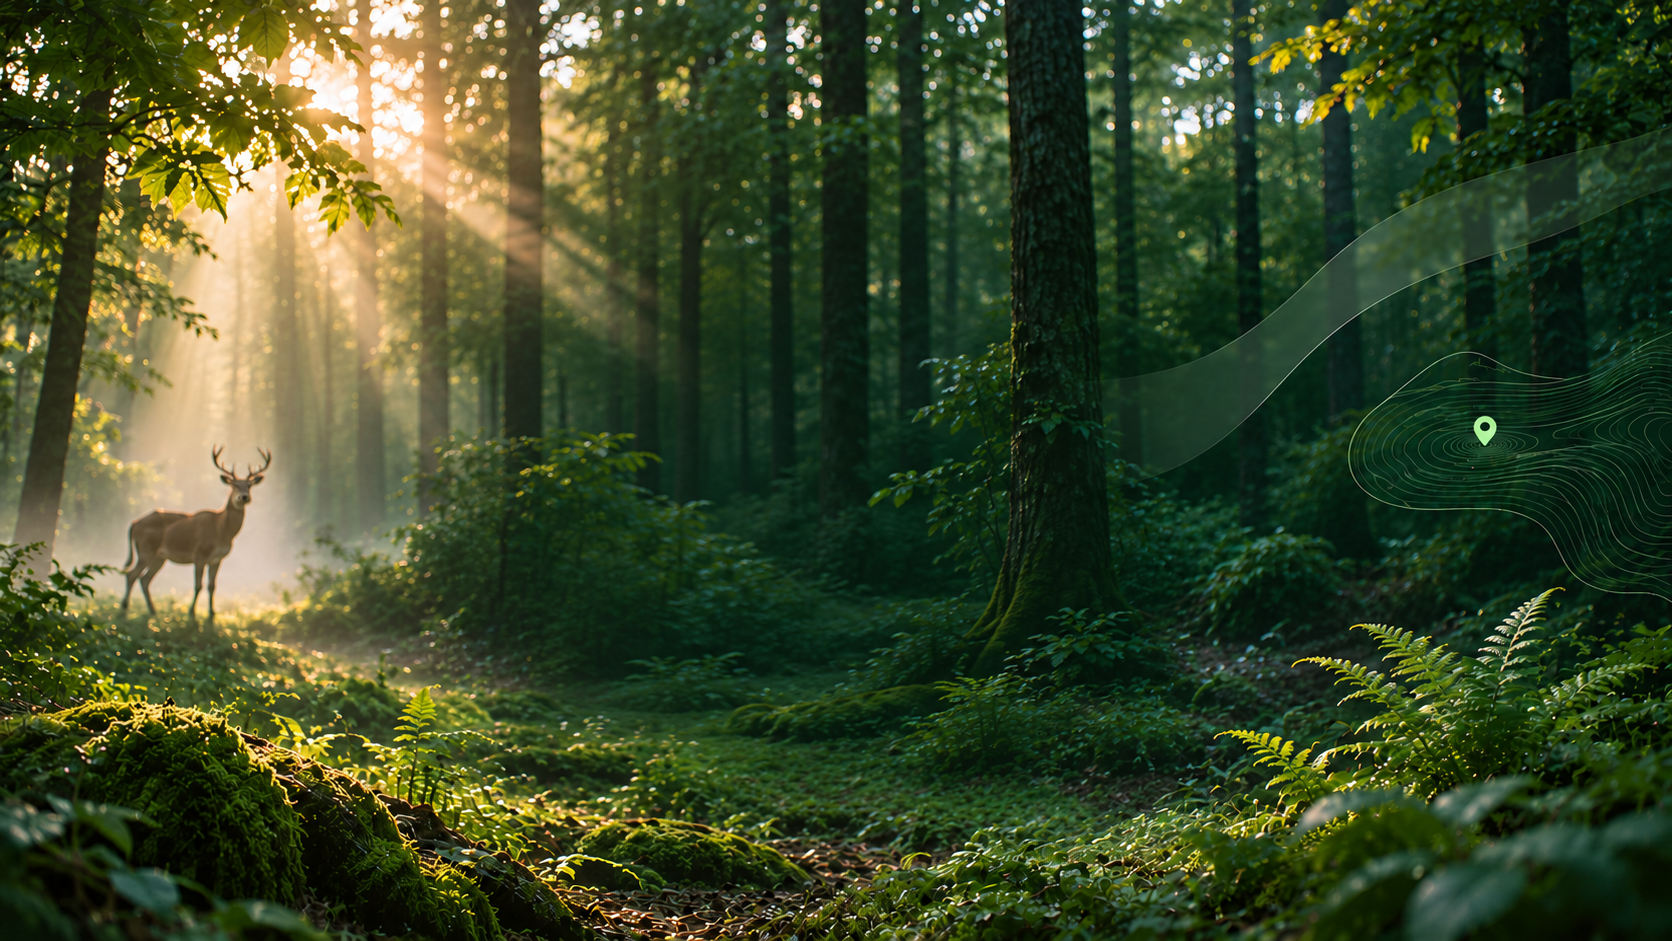
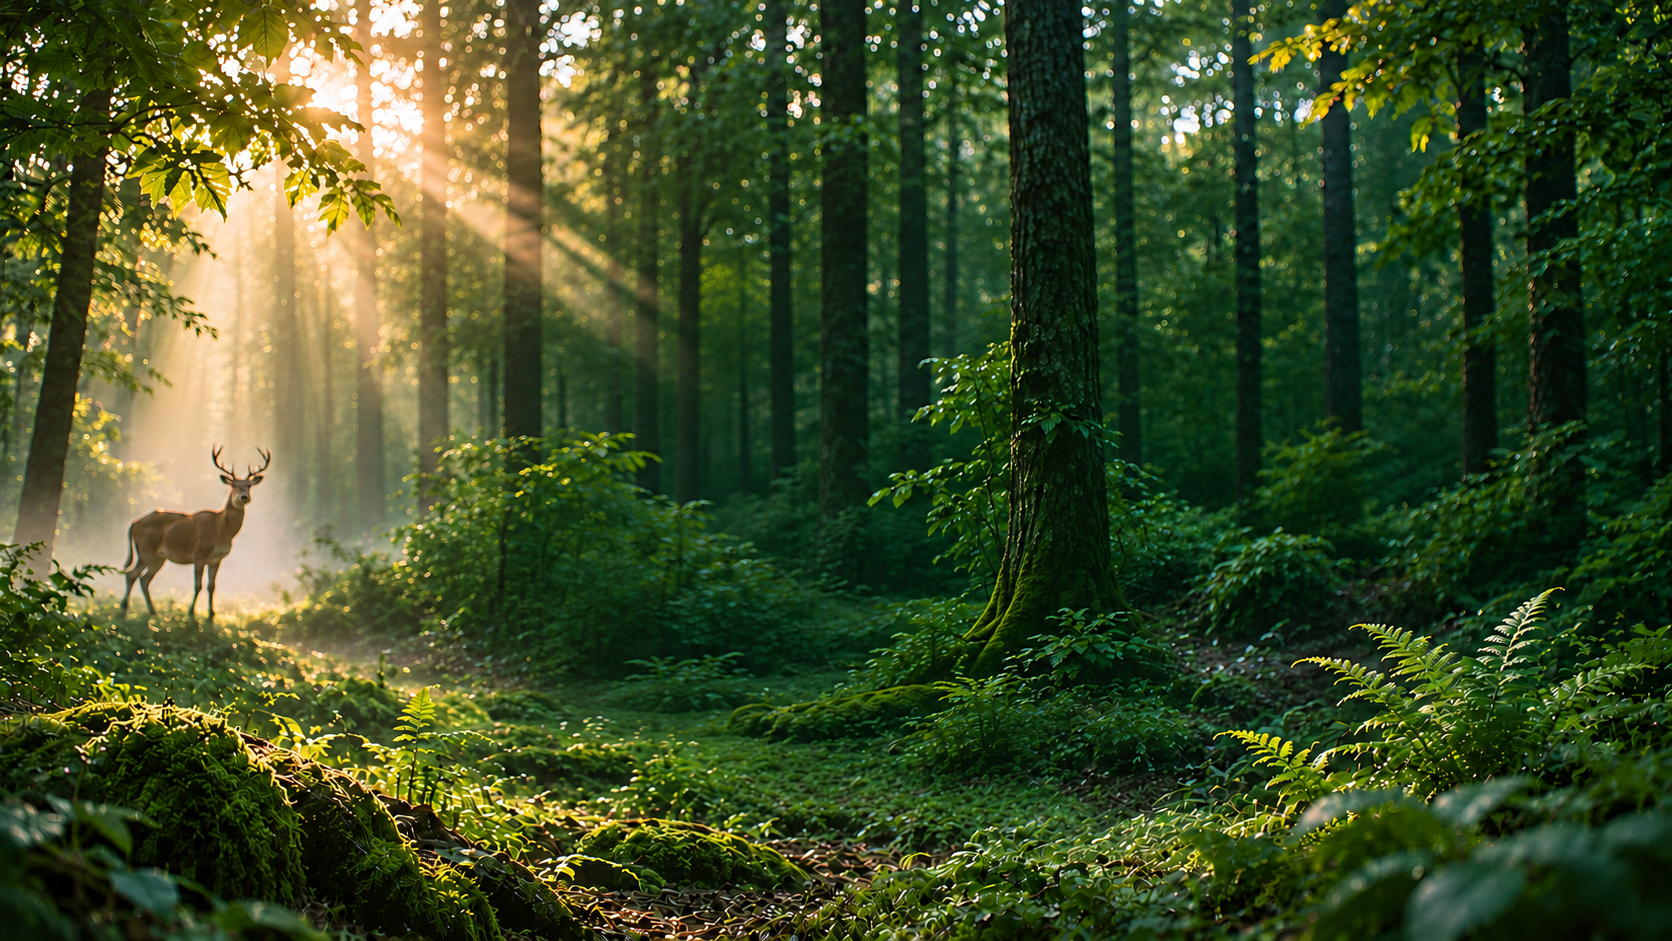
Adjust login page font size and background

diff --git a/frontend/src/pages/AuthPage.vue b/frontend/src/pages/AuthPage.vue
@@ -10,7 +10,7 @@ const mode = computed(() => route.path.slice(1));
 const title = computed(
   () =>
     ({
-      connexion: "Se connecter",
+      connexion: "Connexion",
       inscription: "Créer un compte client",
       initialisation: "Premier administrateur",
       reinitialiser: "Nouveau mot de passe",
@@ -223,7 +223,13 @@ async function submit() {
         type="submit"
         :disabled="busy || (mode === 'reinitialiser' && !token)"
       >
-        {{ busy ? "Veuillez patienter…" : title }}
+        {{
+          busy
+            ? "Veuillez patienter…"
+            : mode === "connexion"
+              ? "Se connecter"
+              : title
+        }}
         <i v-if="!busy" class="pi pi-arrow-right" aria-hidden="true" />
       </button>
     </form>
@@ -279,13 +285,13 @@ async function submit() {
 }
 .auth-tagline {
   margin: -12px 0 0;
-  font-size: 20px;
+  font-size: 19px;
   line-height: 1.25;
   letter-spacing: -0.5px;
 }
 .auth-card h1 {
   margin: 28px 0 16px;
-  font-size: 26px;
+  font-size: 23px;
   line-height: 1.25;
   font-weight: 650;
   letter-spacing: -0.7px;
@@ -471,7 +477,7 @@ async function submit() {
   }
   .auth-card h1 {
     margin-top: 28px;
-    font-size: 24px;
+    font-size: 23px;
   }
   .auth-card .auth-signup {
     margin-top: 26px;

diff --git a/frontend/tests/e2e/login-design.spec.ts b/frontend/tests/e2e/login-design.spec.ts
@@ -26,7 +26,7 @@ for (const viewport of [
     await unauthenticated(page);
     await page.goto("/connexion");
     await expect(
-      page.getByRole("heading", { name: "Se connecter" }),
+      page.getByRole("heading", { name: "Connexion" }),
     ).toBeVisible();
     const logo = page.getByRole("img", { name: "Symbiose", exact: true });
     await expect(logo).toBeVisible();

diff --git a/frontend/src/assets/AUTH_ASSETS.md b/frontend/src/assets/AUTH_ASSETS.md
@@ -3,6 +3,10 @@
 - `symbiose-logo.png` : logo transparent fourni par l’utilisateur, copié sans modification.
 - `auth-forest.png` : fond retouché avec l’outil intégré `image_gen`, à partir de la maquette « Connexion en symbiose dans la forêt.png ». Le formulaire est rendu en HTML par `AuthPage.vue`.
 
-Consigne exacte utilisée pour la retouche :
+Consigne de la première retouche :
 
 > Use case: precise-object-edit. Edit target: the attached forest login page mockup. Produce ONLY the background image for this website. Remove the entire central glass login card, its border, ALL text, the logo, fields, buttons and every form element; reconstruct the natural forest that was behind it with continuous tree trunks, dark green vegetation, moss and forest floor. Preserve as faithfully as possible the surrounding landscape, warm sunbeams in the upper left, deer at left, mossy foreground and ferns. Preserve the subtle translucent curved ribbon and green topographic lines/location marker at the far right. Keep the center dark green and calm for overlaying a real HTML form later. Wide landscape 16:9, photorealistic, high quality. Absolutely no text, no logo, no panel, no UI controls, no frame.
+
+Le fond final `auth-forest.png` a ensuite été retouché avec l’outil intégré `image_gen` pour retirer le liseré et la carte à droite, à la demande de l’utilisateur. Consigne exacte :
+
+> Use case: precise-object-edit. Edit target: the supplied forest background image. Remove ONLY the artificial overlays on the right side: the entire broad translucent curved ribbon and its thin light borders in the upper right, the entire green topographic map contour line graphic in the middle right, and the bright green location pin. Seamlessly replace those graphic areas with natural forest, tree trunks, leaves and ferns matching the surrounding photograph. Preserve the forest composition, lighting, warm sunbeams at upper left, the deer on the left, mossy foreground, tree trunks and dark green center as faithfully as possible. Keep the same landscape dimensions and framing. The final result must be a purely natural photorealistic forest with no map, no marker, no lines, no ribbon, no graphic overlays, no text or logo.
